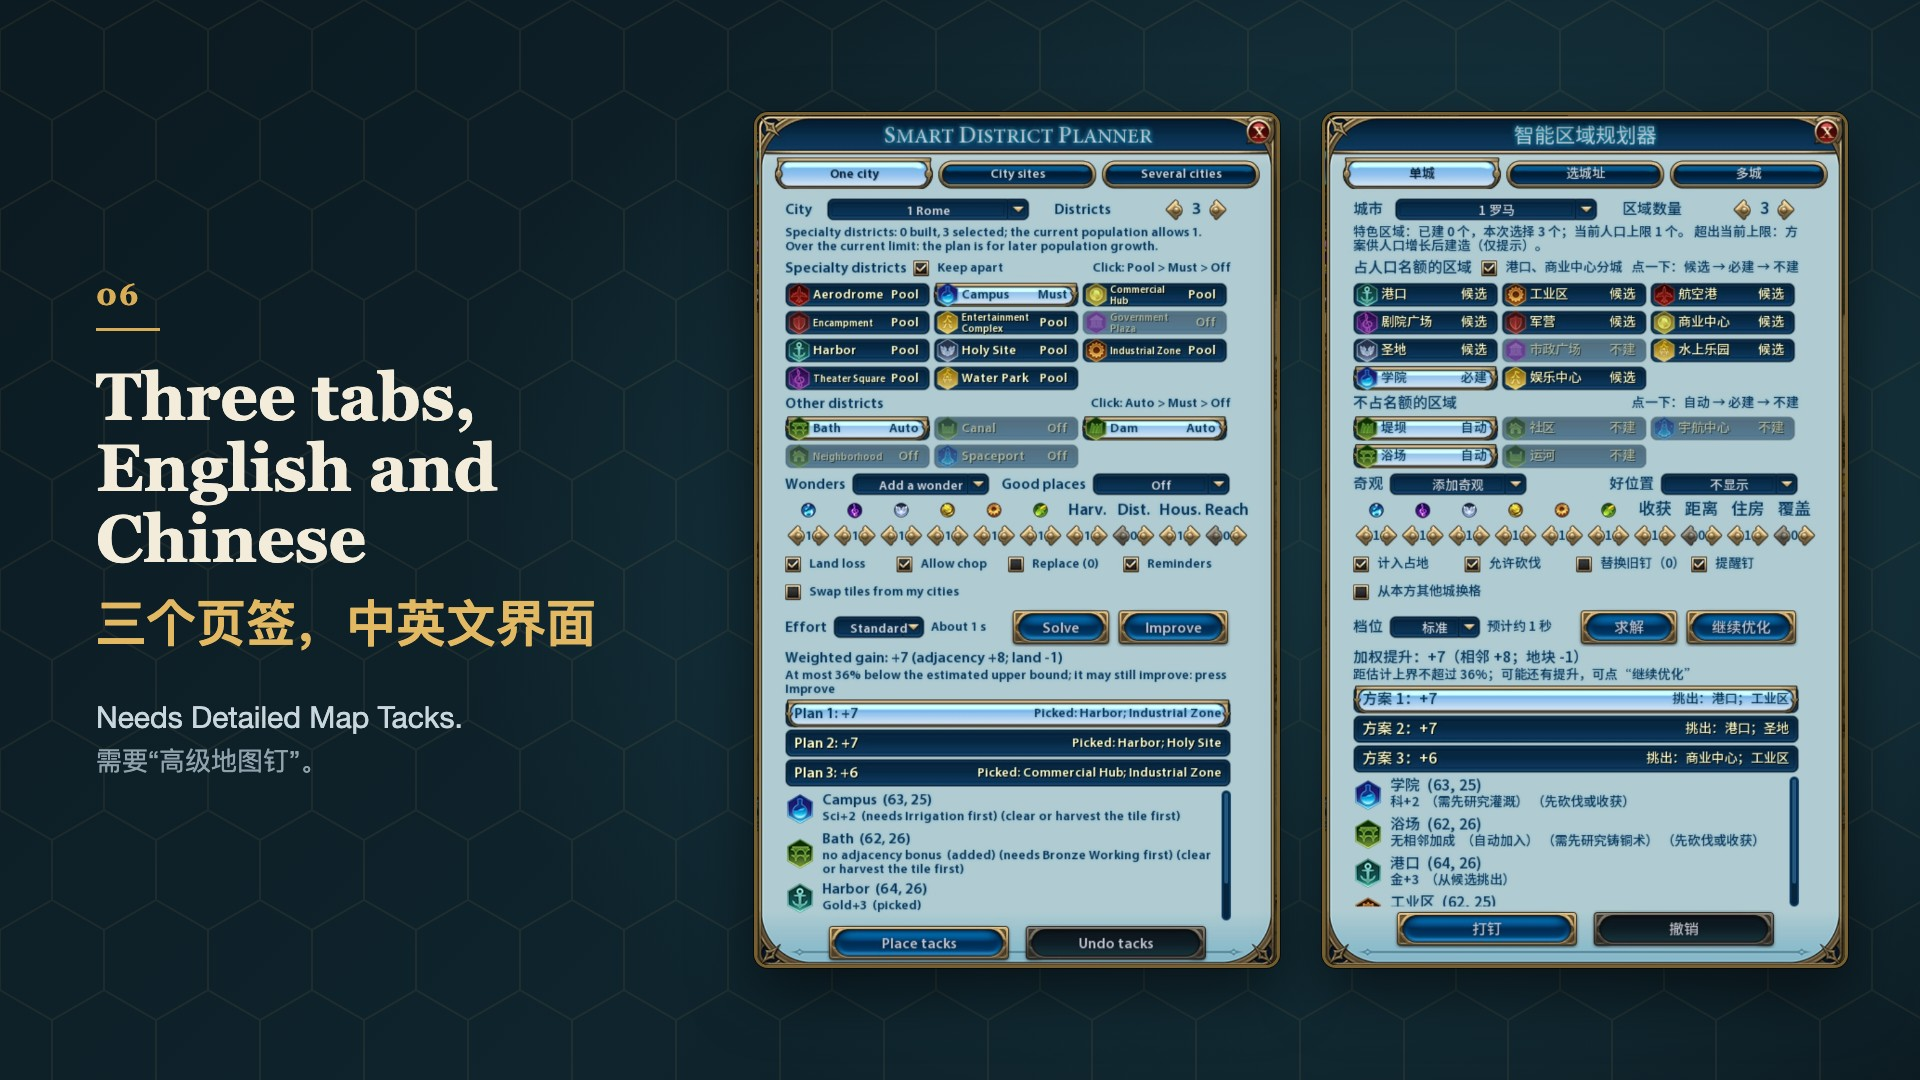
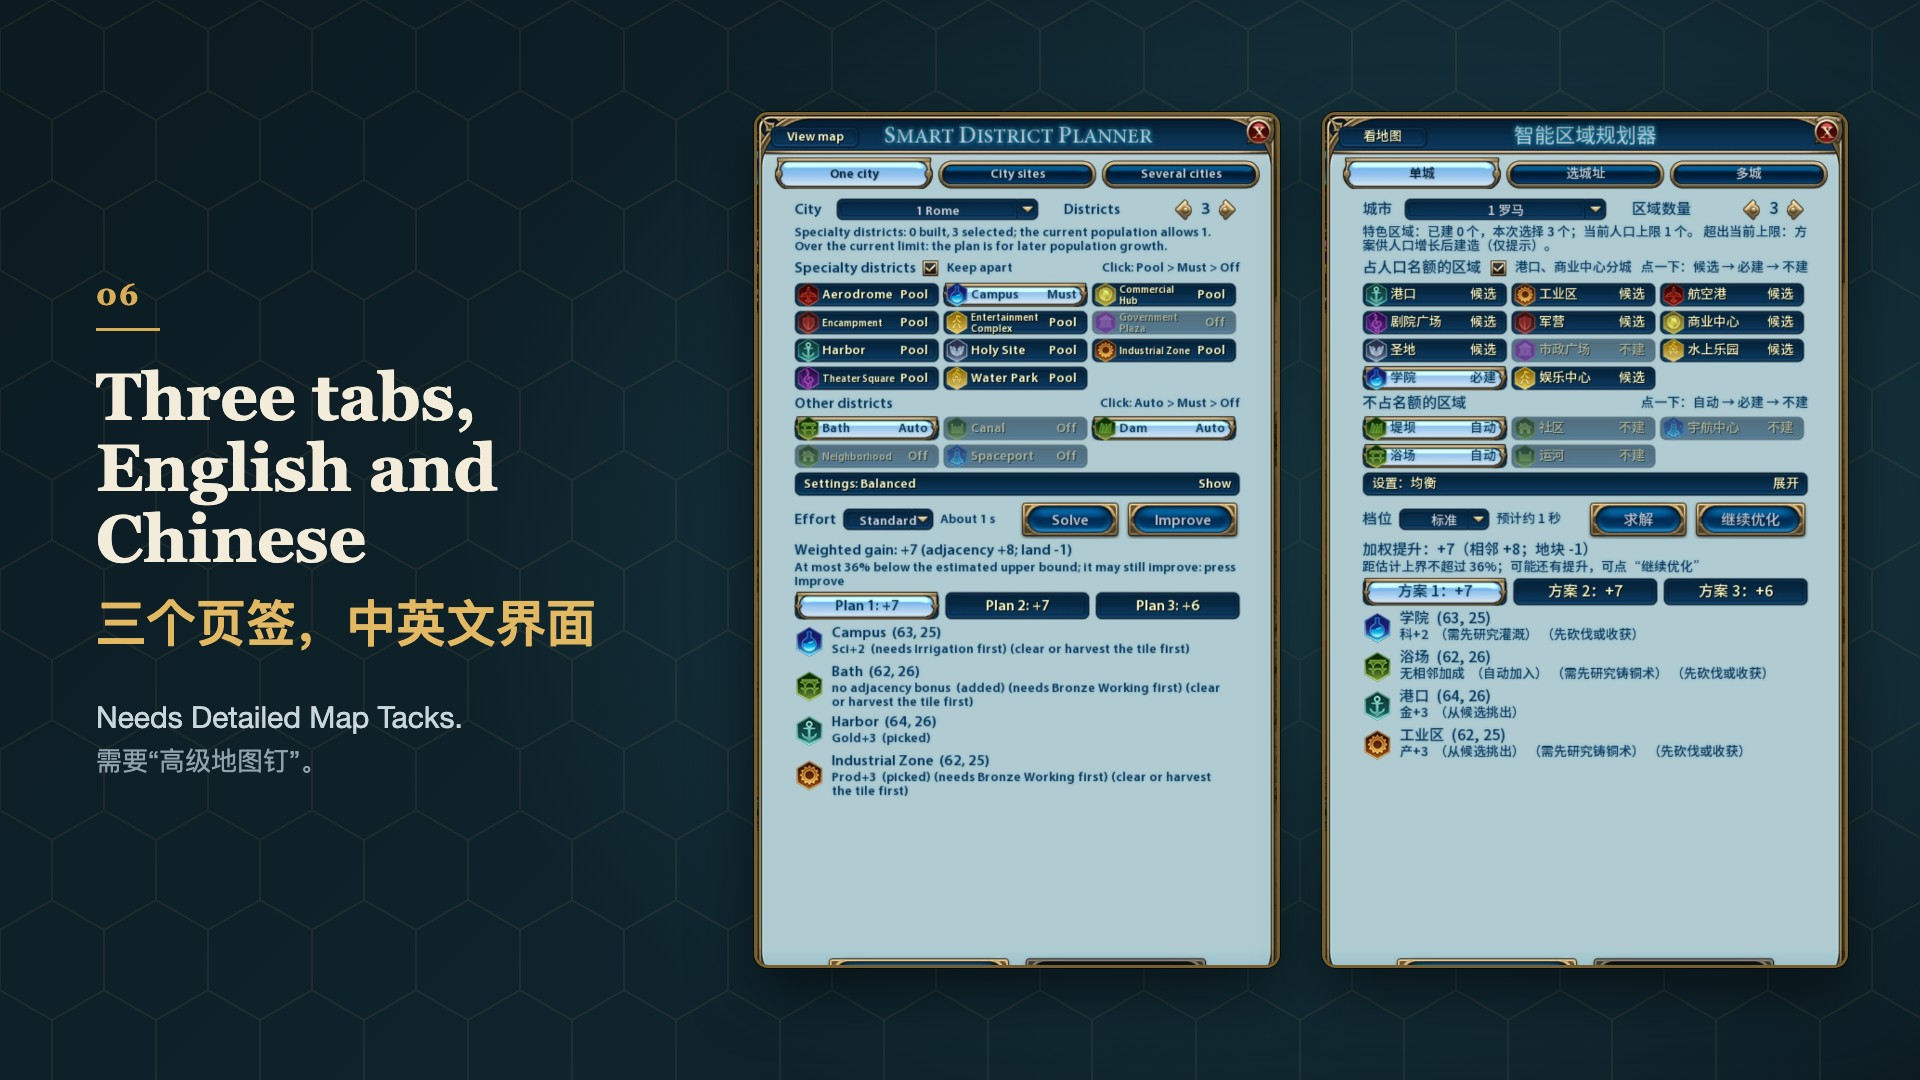
Show the v1.5.0 panel shots in the report, the self-test report and the Workshop picture

Changed region(s): [[0.375, 0.1833, 0.9688, 0.9167], [0.6875, 0.1222, 0.75, 0.1528], [0.4062, 0.1222, 0.4375, 0.1528]]

diff --git a/report/template_en.html b/report/template_en.html
@@ -339,9 +339,9 @@ details.appx[open] > summary { margin-bottom: 8px; }
     </div>
   </div>
   <div class="shots">
-    <figure class="tall"><img src="images/v10-en-panel-single.jpg" alt="The One city tab: districts in two grids, Campus set to Must, 3 districts, three plans in the result" loading="lazy"><figcaption>The One city tab: Campus is a Must, 3 districts, the other specialty districts are in the pool, the Dam and the Bath (Rome's Aqueduct) on Auto, Keep apart and Land loss ticked. The last column of the weights row is Reach (0 by default). The weighted gain is split into adjacency and land; the three plans pick different districts; the Bath is marked as added, the Harbor as picked, with the tech each needs first and "clear or harvest the tile first".</figcaption></figure>
-    <figure class="tall"><img src="images/v10-en-panel-multi.jpg" alt="The Several cities tab: the capital and three site tacks as chips, a shared list, 3 per city, the Temple of Artemis with the Camp it needs" loading="lazy"><figcaption>The Several cities tab: the capital and three site tacks, the default group, shown as chips under “Clear all” and “Default”. In the shared list the Campus, Holy Site and Commercial Hub are Musts, 3 per city, with the Temple of Artemis; 15 districts and 1 wonder across the four cities. The result is scrolled to Site 3’s Temple of Artemis, and below it the Camp the plan puts next to it, tacked together with the wonder.</figcaption></figure>
-    <figure class="tall"><img src="images/v8-en-panel-sites.jpg" alt="The City sites tab: 5 districts ticked, each site scored with 3, three plans" loading="lazy"><figcaption>The City sites tab: 5 districts ticked, each site scored with 3; 40 of 160 candidate sites scored with districts, three plans.</figcaption></figure>
+    <figure class="tall"><img src="images/v11-en-panel-single.jpg" alt="The One city tab: Campus set to Must, 3 districts, the settings folded into one line, three plans as a row of buttons" loading="lazy"><figcaption>The One city tab: Campus is a Must, 3 districts, the other specialty districts are in the pool, the Dam and the Bath (Rome's Aqueduct) on Auto. After the solve the wonders, weights and switches fold into the “Settings: Balanced” line; click it to open them. View map, at the upper left, hides the window to look at the preview. The weighted gain is split into adjacency and land; the three plans are a row of buttons, each with its districts in the tooltip; the Bath is marked as added, the Harbor and Industrial Zone as picked, with the tech each needs first and “clear or harvest the tile first”.</figcaption></figure>
+    <figure class="tall"><img src="images/v11-en-panel-multi.jpg" alt="The Several cities tab: the capital and three site tacks as chips, a shared list, 3 per city, the Temple of Artemis with the Camp it needs" loading="lazy"><figcaption>The Several cities tab: the capital and three site tacks, the default group, shown as chips under “Clear all” and “Default”. In the shared list the Campus, Holy Site and Commercial Hub are Musts, 3 per city; the settings line reads “Balanced · 1 wonder” (the Temple of Artemis). Two plans in a row; in the result, below the Temple of Artemis, the Camp the plan puts next to it, tacked together with the wonder.</figcaption></figure>
+    <figure class="tall"><img src="images/v11-en-panel-sites.jpg" alt="The City sites tab: 5 districts ticked, each site scored with 3, three plans in a row" loading="lazy"><figcaption>The City sites tab: 5 districts ticked, each site scored with 3; 40 of 160 candidate sites scored with districts, three plans in a row. Click the selected plan again to move the camera to its next site; click a site's row to move it there.</figcaption></figure>
     <figure class="span2"><img src="images/v7-en-sites-tooltip.jpg" alt="A site's tooltip: Fresh Water, its distances, Diamonds, Gypsum and Wine, unrevealed tiles, disaster risk, features and districts" loading="lazy"><figcaption>Hovering a site: its water, how far it is from your nearest city and from the plan's other sites, the Luxury resources it gets (Gypsum counts as a new kind there), the natural disaster risk, and its features and districts.</figcaption></figure>
     <figure><img src="images/v3-coverage-tooltip.jpg" alt="Hovering an Industrial Zone row: DMT's breakdown and the cities in its reach" loading="lazy"><figcaption>Hovering a district with a reach: DMT's breakdown, then the cities it covers.</figcaption></figure>
     <figure class="span2"><img src="images/v4-map-reminders.jpg" alt="Reminder tacks: a tack with the Remove Feature icon on each of two Woods tiles" loading="lazy"><figcaption>Reminder tacks: site 3's Holy Site is next to two Woods tiles, so placing the plan also puts a Remove Feature tack on each, saying the Holy Site would lose 1 Faith.</figcaption></figure>

diff --git a/report/template.html b/report/template.html
@@ -339,9 +339,9 @@ details.appx[open] > summary { margin-bottom: 8px; }
     </div>
   </div>
   <div class="shots">
-    <figure class="tall"><img src="images/v10-panel-single.jpg" alt="单城页签：区域分两组排成网格，学院必建，区域数量 3，结果有三套方案" loading="lazy"><figcaption>单城页签：学院必建、区域数量 3，其余占名额的区域是候选，堤坝和浴场（罗马的水渠）为自动，勾着“港口、商业中心分城”和“计入占地”。权重行最后一列是“覆盖”（默认 0）。加权提升分成相邻和地块两部分；三套方案挑出的区域各不相同；结果里浴场标“自动加入”，港口标“从候选挑出”，还注明要先研究的科技和“先砍伐或收获”。</figcaption></figure>
-    <figure class="tall"><img src="images/v10-panel-multi.jpg" alt="多城页签：首都和三个城址钉排成格子，共用清单，每城数量 3，奇观选了阿耳忒弥斯神庙，结果里有它要的营地" loading="lazy"><figcaption>多城页签：默认勾选的首都和三个城址钉排成格子，上方是“全部取消”“恢复默认”。共用清单里学院、圣地、商业中心必建，每城数量 3，奇观选了阿耳忒弥斯神庙；四座城共放 15 个区域和 1 个奇观。结果列表滚到城址 3 的神庙一行，下面是方案为它放的营地，和神庙一起打钉。</figcaption></figure>
-    <figure class="tall"><img src="images/v8-panel-sites.jpg" alt="选城址页签：勾了 5 个区域，每个城址按 3 个估分，三套方案" loading="lazy"><figcaption>选城址页签：勾了 5 个区域，每个城址按 3 个估分；160 个候选里精评 40 个，给出三套方案。</figcaption></figure>
+    <figure class="tall"><img src="images/v11-panel-single.jpg" alt="单城页签：学院必建，区域数量 3，设置收成一行，三套方案排成一行按钮" loading="lazy"><figcaption>单城页签：学院必建、区域数量 3，其余占名额的区域是候选，堤坝和浴场（罗马的水渠）为自动。求解后奇观、权重和开关收进“设置：均衡”一行，点它展开；左上角“看地图”收起窗口看预览。加权提升分成相邻和地块两部分；三套方案排成一行按钮，挑出的区域在悬停提示里；结果里浴场标“自动加入”，港口、工业区标“从候选挑出”，还注明要先研究的科技和“先砍伐或收获”。</figcaption></figure>
+    <figure class="tall"><img src="images/v11-panel-multi.jpg" alt="多城页签：首都和三个城址钉排成格子，共用清单，每城数量 3，奇观选了阿耳忒弥斯神庙，结果里有它要的营地" loading="lazy"><figcaption>多城页签：默认勾选的首都和三个城址钉排成格子，上方是“全部取消”“恢复默认”。共用清单里学院、圣地、商业中心必建，每城数量 3；设置行写着“均衡 · 奇观 1”（阿耳忒弥斯神庙）。两套方案排成一行；结果列表里神庙一行下面是方案为它放的营地，和神庙一起打钉。</figcaption></figure>
+    <figure class="tall"><img src="images/v11-panel-sites.jpg" alt="选城址页签：勾了 5 个区域，每个城址按 3 个估分，三套方案排成一行" loading="lazy"><figcaption>选城址页签：勾了 5 个区域，每个城址按 3 个估分；160 个候选里精评 40 个，三套方案排成一行。再点一次选中的方案，镜头移到下一个城址；点城址一行，镜头移到那里。</figcaption></figure>
     <figure><img src="images/v3-coverage-tooltip.jpg" alt="悬停工业区一行：DMT 的加成来源和覆盖范围内的城市" loading="lazy"><figcaption>悬停有覆盖范围的区域：DMT 的加成来源，下面列出覆盖范围内的城市。</figcaption></figure>
     <figure class="span2"><img src="images/v4-map-reminders.jpg" alt="提醒钉：两片树林上各有一个移除地貌图标的钉，钉名 3 勿砍：圣地 信-1" loading="lazy"><figcaption>提醒钉：城址 3 的圣地挨着两片树林，打钉时在两片树林上各打一个“移除地貌”钉，钉名“3 勿砍：圣地 信-1”。</figcaption></figure>
     <figure><img src="images/v3-mods.jpg" alt="额外内容界面：智能区域规划器的中文名称、简介和依赖" loading="lazy"><figcaption>额外内容界面：名称和简介是中文，关联内容列出 Detailed Map Tacks。</figcaption></figure>

diff --git a/workshop/src/g6-panel.html b/workshop/src/g6-panel.html
@@ -12,6 +12,6 @@
     <p>Needs Detailed Map Tacks.<span>需要“高级地图钉”。</span></p>
     </div>
   </div>
-  <div class="shot" style="width:520px;height:850px;right:640px"><img src="../../docs/images/v10-en-panel-single.jpg" style="object-position:50% 0"></div>
-  <div class="shot" style="width:520px;height:850px"><img src="../../docs/images/v10-panel-single.jpg" style="object-position:50% 0"></div>
+  <div class="shot" style="width:520px;height:850px;right:640px"><img src="../../docs/images/v11-en-panel-single.jpg" style="object-position:50% 0"></div>
+  <div class="shot" style="width:520px;height:850px"><img src="../../docs/images/v11-panel-single.jpg" style="object-position:50% 0"></div>
 </body></html>

diff --git a/docs/self-test-report.md b/docs/self-test-report.md
@@ -135,10 +135,10 @@ AI 自动打出 3 张后期存档，每张跑同一组求解步骤（`tools/stre
 
 | 画面 | 文件 |
 |------|------|
-| 单城页签：学院必建、区域数量 3，权重行有“覆盖”列，三套方案；“收获”列，预计耗时一行写完 | ![single](images/v10-panel-single.jpg) |
-| 多城页签：首都和三个城址钉排成格子，奇观选阿耳忒弥斯神庙，结果里有它要的营地 | ![multi](images/v10-panel-multi.jpg) |
-| 选城址页签：5 个区域，每个城址按 3 个估分 | ![sites](images/v8-panel-sites.jpg) |
-| 英文界面：单城、多城、选城址、城址悬停提示 | `v10-en-panel-single.jpg`、`v10-en-panel-multi.jpg`、`v8-en-panel-sites.jpg`、`v7-en-sites-tooltip.jpg` |
+| 单城页签：学院必建、区域数量 3，求解后设置收成一行，三套方案排成一行按钮 | ![single](images/v11-panel-single.jpg) |
+| 多城页签：首都和三个城址钉排成格子，奇观选阿耳忒弥斯神庙，结果里有它要的营地 | ![multi](images/v11-panel-multi.jpg) |
+| 选城址页签：5 个区域，每个城址按 3 个估分，三套方案排成一行 | ![sites](images/v11-panel-sites.jpg) |
+| 英文界面：单城、多城、选城址、城址悬停提示 | `v11-en-panel-single.jpg`、`v11-en-panel-multi.jpg`、`v11-en-panel-sites.jpg`、`v7-en-sites-tooltip.jpg` |
 | 悬停工业区一行：DMT 的加成来源和覆盖范围内的城市 | ![coverage](images/v3-coverage-tooltip.jpg) |
 | 提醒钉：城址 3 的圣地旁两片树林上的“3 勿砍：圣地 信-1” | ![reminders](images/v4-map-reminders.jpg) |
 | 单城方案的地图预览 | ![single preview](images/v4-map-single-preview.jpg) |
